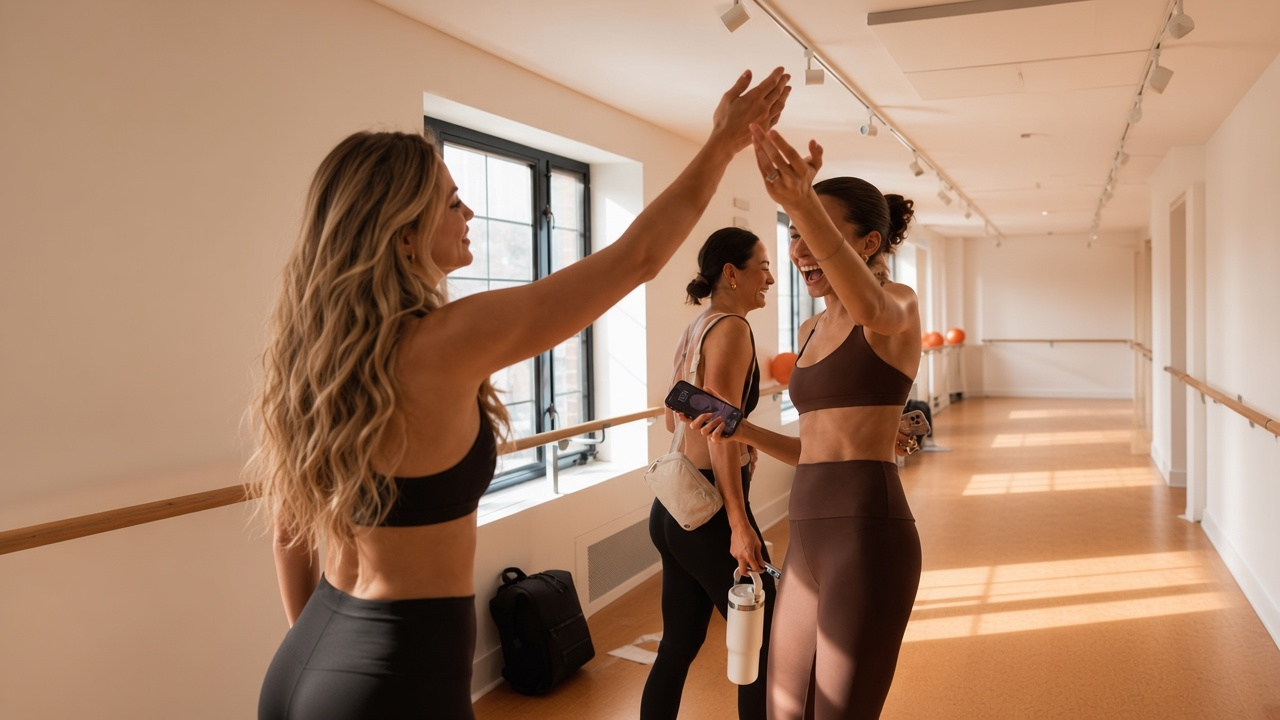
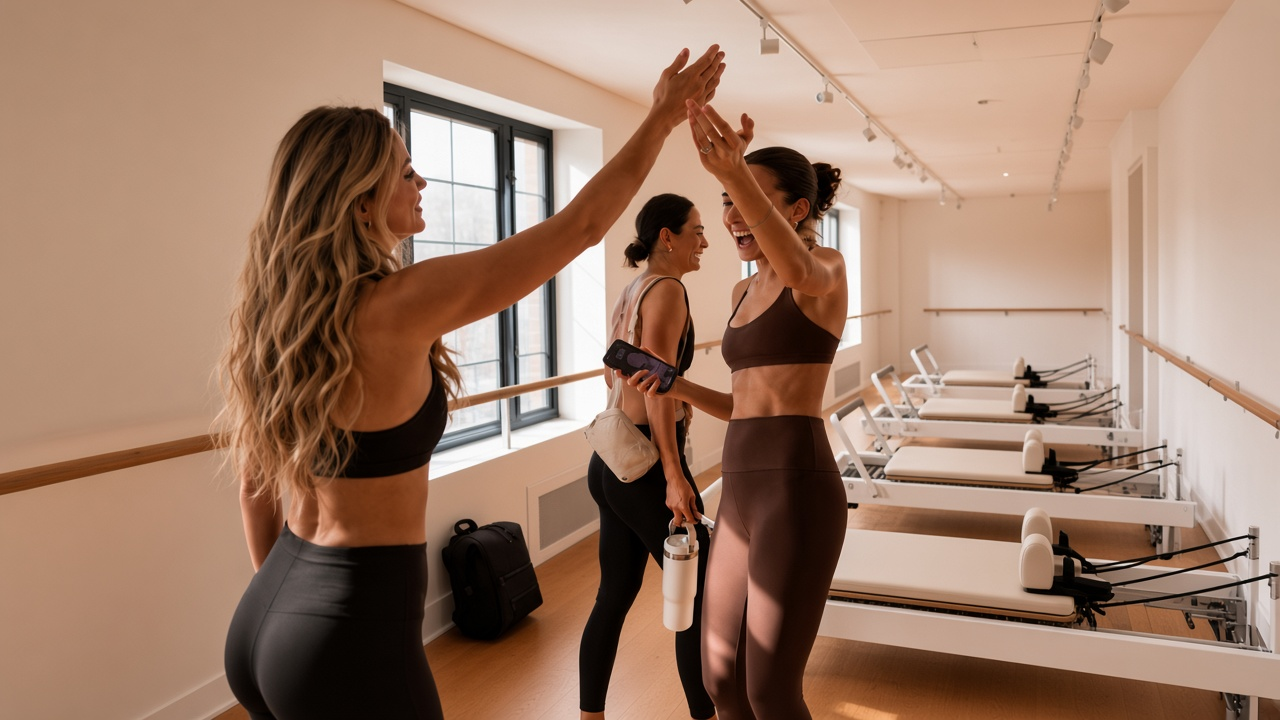
Adapt homepage photos for mobile so they sit with the copy instead of cropping too tightly.

diff --git a/src/app/globals.css b/src/app/globals.css
@@ -166,7 +166,8 @@ h2 { font-family: var(--serif); font-size: clamp(1.9rem, 3.4vw, 2.7rem); letter-
 
 /* full-bleed hero */
 .hero { padding: 0; position: relative; min-height: clamp(540px, 82vh, 860px); display: flex; align-items: flex-end; isolation: isolate; }
-.hero > img { position: absolute; inset: 0; width: 100%; height: 100%; object-fit: cover; object-position: center 28%; z-index: -2; }
+.hero-media { position: absolute; inset: 0; z-index: -2; overflow: hidden; }
+.hero-media img { object-fit: cover; object-position: 42% 32%; }
 .hero::after {
   content: ""; position: absolute; inset: 0; z-index: -1;
   background: linear-gradient(180deg, rgba(18,14,12,.26), rgba(18,14,12,0) 34%, rgba(18,14,12,.5) 76%, rgba(18,14,12,.74));
@@ -196,8 +197,37 @@ h2 { font-family: var(--serif); font-size: clamp(1.9rem, 3.4vw, 2.7rem); letter-
 .pagehead.has-media .wrap { display: grid; grid-template-columns: 1fr .92fr; gap: clamp(28px, 5vw, 64px); align-items: center; }
 .pagehead .ph { aspect-ratio: 4 / 3; }
 
-/* home: "every body belongs here" — shorter photo */
-.belong-photo { aspect-ratio: 4 / 3; }
+/* home: "every body belongs here" */
+.belong-split {
+  grid-template-columns: 1.05fr .95fr;
+  grid-template-rows: auto auto;
+  column-gap: clamp(28px, 5vw, 68px);
+  row-gap: 16px;
+  align-items: start;
+}
+.belong-intro {
+  grid-column: 1;
+  grid-row: 1;
+  display: flex;
+  flex-direction: column;
+  gap: 12px;
+  align-items: flex-start;
+}
+.belong-body {
+  grid-column: 1;
+  grid-row: 2;
+  display: flex;
+  flex-direction: column;
+  gap: 16px;
+  align-items: flex-start;
+}
+.belong-split .belong-photo {
+  grid-column: 2;
+  grid-row: 1 / span 2;
+  align-self: center;
+  aspect-ratio: 4 / 3;
+}
+.belong-photo img { object-position: center 40%; }
 
 /* first visit: step grid */
 .steps { display: grid; grid-template-columns: repeat(2, 1fr); gap: clamp(20px, 3vw, 36px); margin-top: 32px; }
@@ -315,7 +345,7 @@ h2 { font-family: var(--serif); font-size: clamp(1.9rem, 3.4vw, 2.7rem); letter-
 .mnote { margin-top: 22px; font-size: .86rem; color: var(--ink-soft); font-style: italic; }
 .ecard { border: 1px dashed var(--line-dark); border-radius: 14px; padding: 28px; margin-top: 24px; color: var(--ink-soft); font-size: .95rem; max-width: 60ch; }
 .social-head { display: flex; justify-content: space-between; align-items: baseline; gap: 16px; margin-bottom: 20px; flex-wrap: wrap; }
-.social-grid { display: grid; grid-template-columns: repeat(6, 1fr); gap: 12px; }
+.social-grid { display: grid; grid-template-columns: repeat(auto-fill, minmax(150px, 1fr)); gap: 12px; }
 .social-grid .ph { aspect-ratio: 1 / 1; border-radius: 12px; }
 
 /* book */
@@ -368,21 +398,77 @@ h2 { font-family: var(--serif); font-size: clamp(1.9rem, 3.4vw, 2.7rem); letter-
   .menu-toggle { display: block; }
   .mobilebook { display: block; }
   body { padding-bottom: 74px; }
-  .split { grid-template-columns: 1fr; gap: 8px; }
+
+  .hero {
+    min-height: 0;
+    flex-direction: column;
+    align-items: stretch;
+  }
+  .hero-media {
+    position: relative;
+    inset: auto;
+    z-index: 0;
+    width: 100%;
+    aspect-ratio: 4 / 3;
+  }
+  .hero-media img { object-position: 40% 46%; }
+  .hero::after {
+    inset: auto;
+    top: 0; left: 0; right: 0;
+    aspect-ratio: 4 / 3;
+    background: linear-gradient(180deg, rgba(18,14,12,.12), rgba(18,14,12,.08) 55%, rgba(18,14,12,.28));
+  }
+  .hero-inner {
+    position: relative;
+    z-index: 1;
+    background: var(--accent);
+    padding: 26px clamp(20px, 5vw, 44px) 30px;
+    gap: 12px;
+  }
+  .hero h1 {
+    font-size: clamp(2.05rem, 8.6vw, 2.55rem);
+    text-shadow: none;
+  }
+  .hero .sub {
+    font-size: 1.05rem;
+    text-shadow: none;
+  }
+  .hero .btn-fill {
+    background: #F8F3E7;
+    color: var(--accent-deep);
+    box-shadow: none;
+  }
+  .hero .btn-fill:hover { background: #fff; color: var(--accent-deep); }
+
+  .split { grid-template-columns: 1fr; gap: 22px; }
   .split .col { gap: 16px; }
   .split h2.sticky { position: static; }
-  .split .ph { order: -1; }
+
+  .belong-split {
+    grid-template-columns: 1fr;
+    grid-template-rows: none;
+    gap: 16px;
+  }
+  .belong-intro,
+  .belong-split .belong-photo,
+  .belong-body {
+    grid-column: auto;
+    grid-row: auto;
+  }
+  .belong-split .belong-photo { aspect-ratio: 4 / 3; }
+
   .steps { grid-template-columns: 1fr; gap: 0; }
   .step { padding: 20px 0; }
   .class-row { grid-template-columns: 1fr; gap: 6px; padding: 20px 2px; }
   .class-row a { justify-self: start; }
-  .pagehead.has-media .wrap { grid-template-columns: 1fr; }
-  .pagehead .ph { order: -1; }
+  .pagehead.has-media .wrap { grid-template-columns: 1fr; gap: 22px; }
+  .pagehead .ph { aspect-ratio: 4 / 3; }
+  .imgband .ph { aspect-ratio: 16 / 10; }
   .cd { grid-template-columns: 110px 1fr; gap: 12px 20px; }
   .cd > .cd-body { grid-column: 1 / -1; }
   .cd > .cd-head { align-self: center; }
   .cd-thumb { aspect-ratio: 1 / 1; }
-  .social-grid { grid-template-columns: repeat(4, 1fr); }
+  .social-grid { grid-template-columns: repeat(3, 1fr); }
 }
 @media (max-width: 560px) {
   .foot-contact { text-align: left; }
@@ -390,7 +476,9 @@ h2 { font-family: var(--serif); font-size: clamp(1.9rem, 3.4vw, 2.7rem); letter-
   .cd { grid-template-columns: 1fr; }
   .cd > .cd-body { grid-column: auto; }
   .cd-thumb { aspect-ratio: 16 / 10; }
-  .social-grid { grid-template-columns: repeat(3, 1fr); }
+  .social-grid { grid-template-columns: repeat(2, 1fr); }
+  .hero-media { aspect-ratio: 5 / 4; }
+  .hero::after { aspect-ratio: 5 / 4; }
 }
 @media (prefers-reduced-motion: reduce) {
   * { transition: none !important; scroll-behavior: auto !important; }

diff --git a/src/app/(site)/page.tsx b/src/app/(site)/page.tsx
@@ -15,13 +15,15 @@ export default async function HomePage() {
   return (
     <>
       <section className="hero">
-        <Image
-          src={images.homeHero.src}
-          alt={images.homeHero.alt}
-          fill
-          priority
-          sizes="100vw"
-        />
+        <div className="hero-media">
+          <Image
+            src={images.homeHero.src}
+            alt={images.homeHero.alt}
+            fill
+            priority
+            sizes="100vw"
+          />
+        </div>
         <div className="hero-inner">
           <span className="eyebrow">
             {home.eyebrow || `Reformer Pilates in ${settings.city}`}
@@ -38,13 +40,10 @@ export default async function HomePage() {
 
       <section className="section on-sage">
         <div className="wrap">
-          <div className="split">
-            <div className="col">
+          <div className="split belong-split">
+            <div className="belong-intro">
               <span className="eyebrow">{home.belongEyebrow}</span>
               <h2>{home.belongHeadline}</h2>
-              <p className="lead">{home.belongLead1}</p>
-              <p className="lead">{home.belongLead2}</p>
-              <p className="sig">{home.belongSig}</p>
             </div>
             <div className="ph belong-photo">
               <Image
@@ -53,6 +52,11 @@ export default async function HomePage() {
                 width={720}
                 height={540}
               />
+            </div>
+            <div className="belong-body">
+              <p className="lead">{home.belongLead1}</p>
+              <p className="lead">{home.belongLead2}</p>
+              <p className="sig">{home.belongSig}</p>
             </div>
           </div>
         </div>
@@ -112,10 +116,7 @@ export default async function HomePage() {
               Follow {settings.instagram}
             </Link>
           </div>
-          <div
-            className="social-grid"
-            style={{ gridTemplateColumns: "repeat(5,1fr)" }}
-          >
+          <div className="social-grid">
             {social.slice(0, 5).map((s) => (
               <div className="ph" key={s.id}>
                 <Image src={s.url} alt={s.caption ?? ""} width={400} height={400} />
